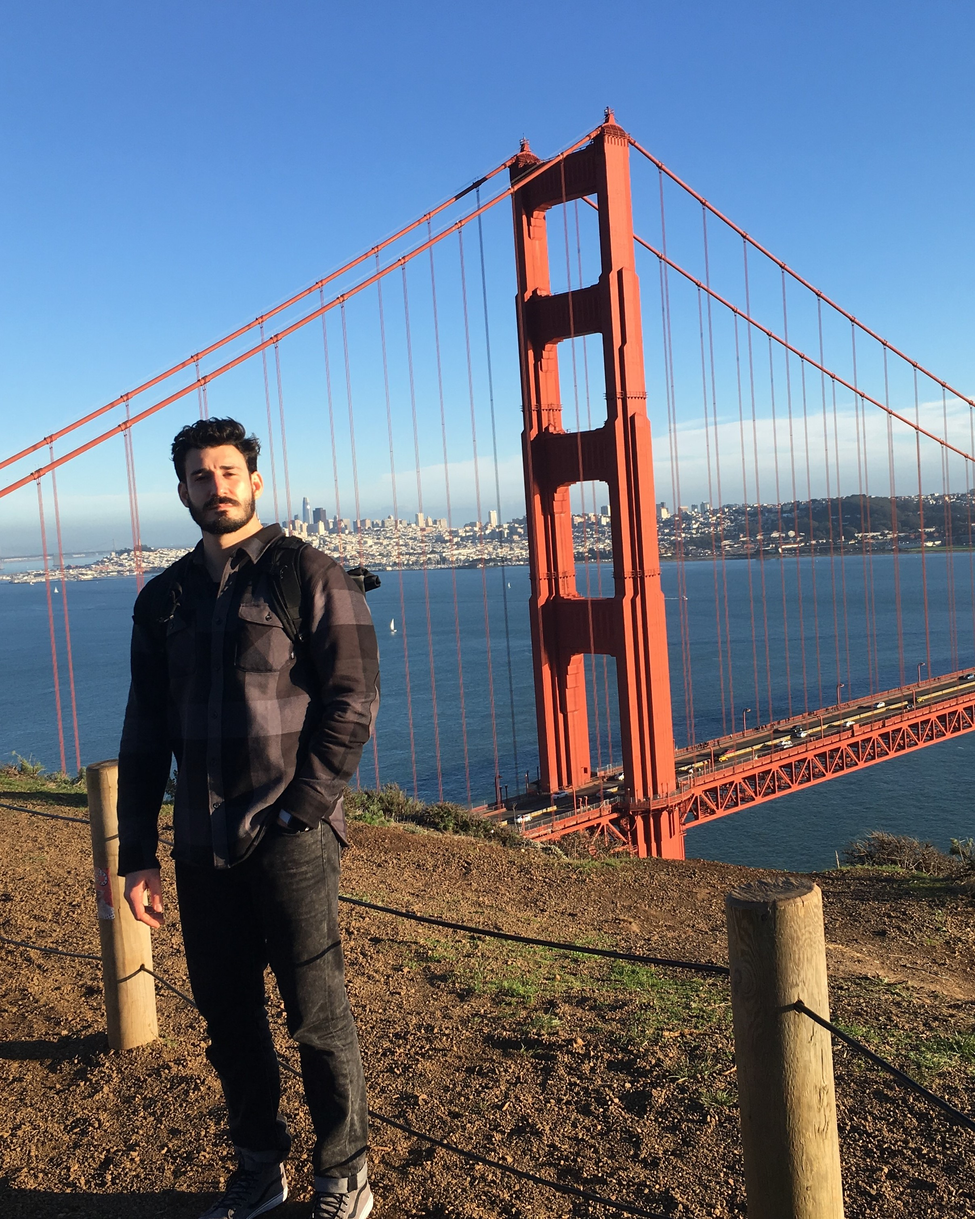
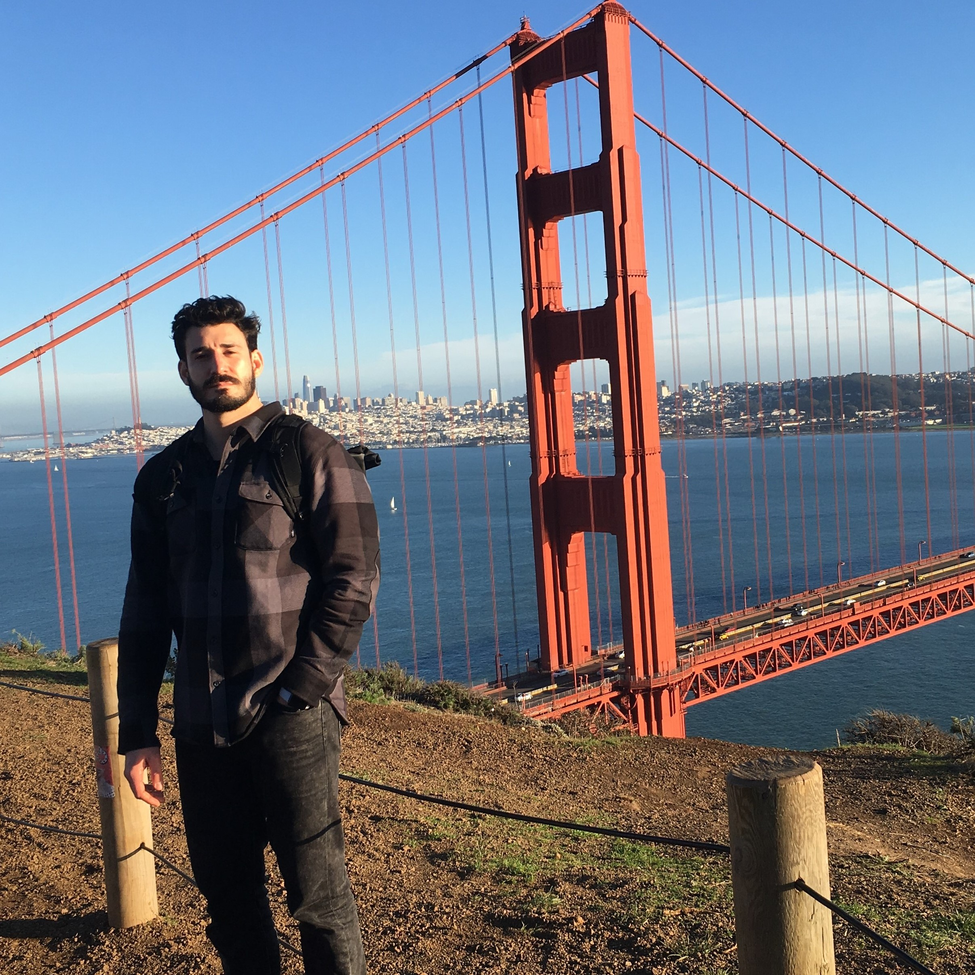
adding photos and css

diff --git a/src/components/projects.js b/src/components/projects.js
@@ -14,7 +14,7 @@ class Projects extends Component {
       return(
       <div className="projectsGrid">
       {/* Project 1*/}
-        <Card shadow={5} style={{minWidth: '450', margin: 'auto'}}>
+        <Card shadow={5} style={{minWidth: '450', margin: 'auto', borderRadius: '10px'}}>
           <CardTitle 
             style={{color: '#fff', height: '176px', background: 'url(https://encrypted-tbn0.gstatic.com/images?q=tbn:ANd9GcQ8t8PVXRnvJ9cEvRIrth12C9O1h1N-0q3fSRgcmk0hyu2GFGON) center / cover'}}>Stock Trader</CardTitle>
           <CardText>
@@ -31,7 +31,7 @@ class Projects extends Component {
       
 
       {/*Project 2*/}
-      <Card shadow={5} style={{minWidth: '450', margin: 'auto'}}>
+      <Card shadow={5} style={{minWidth: '450', margin: 'auto', borderRadius: '10px'}}>
       <CardTitle
         style={{color: '#fff', height: '176px', background: 'url(https://encrypted-tbn0.gstatic.com/images?q=tbn:ANd9GcSfZlUIdmIuy8bNS-v4U5dobsls-6na5hXnWOmvgPgPqdjO4HD9xw) center / cover'}}></CardTitle>
       <CardText>
@@ -47,7 +47,7 @@ class Projects extends Component {
     </Card>
 
       {/*Project 3*/}
-      <Card shadow={5} style={{minWidth: '450', margin: 'auto'}}>
+      <Card shadow={5} style={{minWidth: '450', margin: 'auto', borderRadius: '10px'}}>
       <CardTitle 
         style={{color: '#fff', height: '176px', background: 'url(https://encrypted-tbn0.gstatic.com/images?q=tbn:ANd9GcSfZlUIdmIuy8bNS-v4U5dobsls-6na5hXnWOmvgPgPqdjO4HD9xw) center / cover'}}></CardTitle>
       <CardText>
@@ -68,7 +68,7 @@ class Projects extends Component {
       return(
         <div className="projectsGrid">
         {/* Project 1*/}
-          <Card shadow={5} style={{minWidth: '450', margin: 'auto'}}>
+          <Card shadow={5} style={{minWidth: '450', margin: 'auto', borderRadius: '10px'}}>
             <CardTitle 
               style={{color: '#fff', height: '176px', background: 'url(https://images.alphacoders.com/600/thumb-350-600473.png) center / cover'}}>Skyrim RPG</CardTitle>
             <CardText>
@@ -85,7 +85,7 @@ class Projects extends Component {
         
   
         {/*Project 2*/}
-        <Card shadow={5} style={{minWidth: '450', margin: 'auto'}}>
+        <Card shadow={5} style={{minWidth: '450', margin: 'auto', borderRadius: '10px'}}>
         <CardTitle
           style={{color: '#fff', height: '176px', background: 'url(https://encrypted-tbn0.gstatic.com/images?q=tbn:ANd9GcSfZlUIdmIuy8bNS-v4U5dobsls-6na5hXnWOmvgPgPqdjO4HD9xw) center / cover'}}></CardTitle>
         <CardText>
@@ -101,7 +101,7 @@ class Projects extends Component {
       </Card>
   
         {/*Project 3*/}
-        <Card shadow={5} style={{minWidth: '450', margin: 'auto'}}>
+        <Card shadow={5} style={{minWidth: '450', margin: 'auto', borderRadius: '10px'}}>
         <CardTitle 
           style={{color: '#fff', height: '176px', background: 'url(https://encrypted-tbn0.gstatic.com/images?q=tbn:ANd9GcSfZlUIdmIuy8bNS-v4U5dobsls-6na5hXnWOmvgPgPqdjO4HD9xw) center / cover'}}></CardTitle>
         <CardText>
@@ -121,7 +121,7 @@ class Projects extends Component {
       return(
         <div className="projectsGrid">
         {/* Project 1*/}
-          <Card shadow={5} style={{minWidth: '450', margin: 'auto'}}>
+          <Card shadow={5} style={{minWidth: '450', margin: 'auto', borderRadius: '10px'}}>
             <CardTitle 
[1 lines of base64/hex data omitted]
             <CardText>
@@ -138,7 +138,7 @@ class Projects extends Component {
         
   
         {/*Project 2*/}
-        <Card shadow={5} style={{minWidth: '450', margin: 'auto'}}>
+        <Card shadow={5} style={{minWidth: '450', margin: 'auto', borderRadius: '10px'}}>
         <CardTitle
           style={{color: '#fff', height: '176px', background: 'url(https://encrypted-tbn0.gstatic.com/images?q=tbn:ANd9GcSfZlUIdmIuy8bNS-v4U5dobsls-6na5hXnWOmvgPgPqdjO4HD9xw) center / cover'}}></CardTitle>
         <CardText>
@@ -154,7 +154,7 @@ class Projects extends Component {
       </Card>
   
         {/*Project 3*/}
-        <Card shadow={5} style={{minWidth: '450', margin: 'auto'}}>
+        <Card shadow={5} style={{minWidth: '450', margin: 'auto', borderRadius: '10px'}}>
         <CardTitle 
           style={{color: '#fff', height: '176px', background: 'url(https://encrypted-tbn0.gstatic.com/images?q=tbn:ANd9GcSfZlUIdmIuy8bNS-v4U5dobsls-6na5hXnWOmvgPgPqdjO4HD9xw) center / cover'}}></CardTitle>
         <CardText>
@@ -174,7 +174,7 @@ class Projects extends Component {
       return(
         <div className="projectsGrid">
         {/* Project 1*/}
-          <Card shadow={5} style={{minWidth: '450', margin: 'auto'}}>
+          <Card shadow={5} style={{minWidth: '450', margin: 'auto', borderRadius: '10px'}}>
             <CardTitle 
               style={{color: '#fff', height: '176px', background: 'url(https://encrypted-tbn0.gstatic.com/images?q=tbn:ANd9GcQ8t8PVXRnvJ9cEvRIrth12C9O1h1N-0q3fSRgcmk0hyu2GFGON) center / cover'}}>Stock Trader</CardTitle>
             <CardText>
@@ -191,7 +191,7 @@ class Projects extends Component {
         
   
         {/*Project 2*/}
-        <Card shadow={5} style={{minWidth: '450', margin: 'auto'}}>
+        <Card shadow={5} style={{minWidth: '450', margin: 'auto', borderRadius: '10px'}}>
         <CardTitle
           style={{color: '#fff', height: '176px', background: 'url(https://encrypted-tbn0.gstatic.com/images?q=tbn:ANd9GcSfZlUIdmIuy8bNS-v4U5dobsls-6na5hXnWOmvgPgPqdjO4HD9xw) center / cover'}}></CardTitle>
         <CardText>
@@ -207,7 +207,7 @@ class Projects extends Component {
       </Card>
   
         {/*Project 3*/}
-        <Card shadow={5} style={{minWidth: '450', margin: 'auto'}}>
+        <Card shadow={5} style={{minWidth: '450', margin: 'auto', borderRadius: '10px'}}>
         <CardTitle 
           style={{color: '#fff', height: '176px', background: 'url(https://encrypted-tbn0.gstatic.com/images?q=tbn:ANd9GcSfZlUIdmIuy8bNS-v4U5dobsls-6na5hXnWOmvgPgPqdjO4HD9xw) center / cover'}}></CardTitle>
         <CardText>

diff --git a/src/components/contact.js b/src/components/contact.js
@@ -1,5 +1,6 @@
 import React, { Component } from 'react';
 import { Grid, Cell, List, ListItem, ListItemContent } from 'react-mdl';
+import contactLogo from '../assets/profile2.JPG'
 
 class Contact extends Component {
   render() {
@@ -9,9 +10,9 @@ class Contact extends Component {
           <Cell col={6}>
             <h2>Jonathan Dangelo </h2>
             <img 
-              src="https://cdn2.iconfinder.com/data/icons/avatar-2/512/Fred_man-512.png"
+              src={contactLogo}
               alt="myPhoto"
-              style={{height: '250px'}}
+              style={{height: '500px', borderRadius: '10px'}}
             />          
             <p style={{width: '75%', margin: 'auto', paddingTop: '1em'}}>
               Have some information about the contact page go here.
@@ -24,14 +25,14 @@ class Contact extends Component {
               <List>
 
                 <ListItem>
-                  <ListItemContent style={{fontSize: '30px', fontFamily: 'Raleway'}}>
+                  <ListItemContent style={{fontSize: '30px', fontFamily: 'Raleway', color: 'white'}}>
                     <i className="fa fa-phone-square" aria-hidden="true"/>
                     (949) 554-9676
                   </ListItemContent>
                 </ListItem>
 
                 <ListItem>
-                  <ListItemContent style={{fontSize: '30px', fontFamily: 'Raleway'}}>
+                  <ListItemContent style={{fontSize: '30px', fontFamily: 'Raleway', color: 'white'}}>
                     <a href="google.com" target="_blank" rel="noopener noreferrer">
                       <i className="fa fa-envelope-square" aria-hidden="true"/>
                     </a>
@@ -40,7 +41,7 @@ class Contact extends Component {
                 </ListItem>
 
                 <ListItem>
-                  <ListItemContent style={{fontSize: '30px', fontFamily: 'Raleway'}}>
+                  <ListItemContent style={{fontSize: '30px', fontFamily: 'Raleway', color: 'white'}}>
                     <a href="https://github.com/jonjebo" target="_blank" rel="noopener noreferrer">
                       <i className="fa fa-github" aria-hidden="true"/>
                     </a>
@@ -49,7 +50,7 @@ class Contact extends Component {
                 </ListItem>
 
                 <ListItem>
-                  <ListItemContent style={{fontSize: '30px', fontFamily: 'Raleway'}}>
+                  <ListItemContent style={{fontSize: '30px', fontFamily: 'Raleway', color: 'white'}}>
                   <a href="https://linkedin.com/in/jonathanddangelo" target="_blank" rel="noopener noreferrer">
                       <i className="fa fa-linkedin-square" aria-hidden="true"/>
                     </a>

diff --git a/src/components/resume.js b/src/components/resume.js
@@ -3,7 +3,7 @@ import { Grid, Cell } from 'react-mdl';
 import Education from './education';
 import Experience from './experience';
 import Skills from './skills';
-import resumePhoto from '../assets/profile1.JPG'
+import resumePhoto from '../assets/preg1.jpg'
 
 class Resume extends Component {
   render() {
@@ -15,18 +15,17 @@ class Resume extends Component {
               <img
                 src={resumePhoto}
                 alt="resume profile photo"
-                style={{height: '590px'}}
-                className="resumePhoto"
+                style={{height: '590px', borderRadius: '10px'}}
               />
             </div>
 
             <h2 style={{paddingTop: '2em'}}>Jonathan Dangelo</h2>
             <h4 style={{color: '#696969'}}>Software Engineer</h4>
-            <hr style={{borderTop: '3px solid #833fb2', width: '50%'}}/>
+            <hr style={{borderTop: '3px dotted #833fb2', width: '100%'}}/>
             <p>
               Fill in some information here for my resume
             </p>
-            <hr style={{borderTop: '3px solid #833fb2', width: '50%'}}/>
+            <hr style={{borderTop: '3px dotted #833fb2', width: '100%'}}/>
             <h5>Address</h5>
             <p>1 Hacker Way Menlo Park, 94025</p>
             <h5>Phone</h5>
@@ -53,7 +52,7 @@ class Resume extends Component {
               schoolName="Colorado State University"
               schoolDescription="Put in some information about shcool here"
             />
-            <hr style={{borderTop: '3px solid #e22947'}}/>
+            <hr style={{borderTop: '3px dotted white'}}/>
             <h2>Experience</h2>
           <Experience
             startYear={2005}
@@ -96,7 +95,7 @@ class Resume extends Component {
             jobName="First Job"
             jobDescription="Do some job descriptions"
           />
-          <hr style={{borderTop: '3px solid #e22947'}}/>
+          <hr style={{borderTop: '3px dotted white'}}/>
           <h2>Skills</h2>
           <Skills 
             skill="JavaScript: "

diff --git a/src/App.css b/src/App.css
@@ -26,8 +26,9 @@
 
 .profileImage{
   height: 600px;
-  padding-top: 5em; 
-  padding-bottom: 24em;
+  border-radius: 10px;
+  display: flex;
+  margin: auto;
 }
 
 .bannerText {
@@ -36,7 +37,6 @@
   width: 75%;
   margin: auto;
   border-radius: 10px;
-  font-family: 'Raleway', sans-serif;
 }
 
 .bannerText h1 {
@@ -56,7 +56,6 @@
   color: white;
   font-size: 20px;
   padding: 1em;
-  font-family: 'Raleway', sans-serif;
 }
 
 .socialLinks {
@@ -85,7 +84,7 @@
 /* contact page css */
 .contactBody {
   margin: auto;
-  background: grey;
+  background: white;
   position: absolute;
   width: 100%;
   height: 100%;
@@ -98,22 +97,24 @@
   justify-content: center;
   width: 80%;
   height: 800px;
-  background: white;
-  color: black;
-  border: 2px solid black;
+  background:  #27221F;
+  color:white;
   margin-bottom: 20px;
+  border-radius: 10px;
 }
 
 .contactGrid h2 {
   font-family: 'Raleway', sans-serif;
+  color:white;
 }
 
 .contactGrid p {
   font-family: 'Raleway', sans-serif;
+  color: white;
 }
 
 .contactGrid hr {
-  border-top: 5px dotted black;
+  border-top: 5px dotted white;
   width: 50%;
   margin: auto;
 }
@@ -121,7 +122,7 @@
 .contactList i {
   font-size: 66px;
   padding-right: 5rem;
-  color:black;
+  color: white;
 }
 
 
@@ -131,6 +132,7 @@
   background: #27221F;
   color:white;
   padding: 2em;
+  border-radius: 10px;
 }
 
 .resumeLeftCol {

diff --git a/src/components/landingPage.js b/src/components/landingPage.js
@@ -1,6 +1,6 @@
 import React, { Component } from 'react';
 import { Grid, Cell } from 'react-mdl';
-import mainLogo from '../assets/falls.JPG';
+import mainLogo from '../assets/profile1.JPG';
 
 class Landing extends Component {
   render() {
@@ -13,6 +13,8 @@ class Landing extends Component {
               alt="jonImage"
               className="profileImage"
             />
+          </Cell>
+          <Cell col={12}>
             <div className="bannerText">
               <h1> Full Stack Web Developer </h1>
 

diff --git a/src/App.js b/src/App.js
@@ -10,7 +10,7 @@ class App extends Component {
       <div className="demo-big-content">
     <Layout>
         <Header className="header-color" 
-        title={<Link style={{textDecoration: 'none', color: 'white'}} to="/" >My Portfolio</Link>} scroll>
+        title={<Link style={{textDecoration: 'none', color: 'white', fontFamily:'Raleway' }} to="/" >My Portfolio</Link>} scroll>
             <Navigation>
                 <Link to="/resume">Resume</Link>
                 <Link to="/aboutme">About Me</Link>
